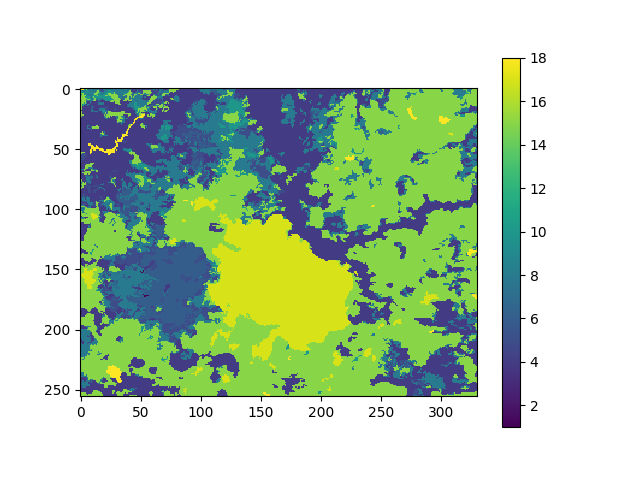
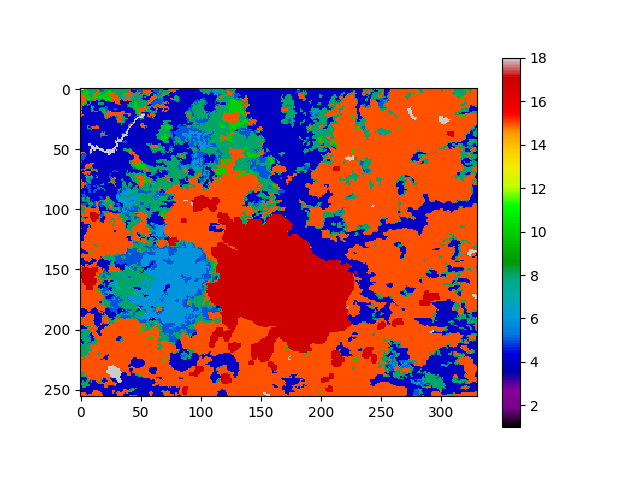
Land Use model enhanced, it works. Still pendient the rules used

diff --git a/Python/GDAL-OGR/Raster/OOCA-LandUseSimulation/OOCA-LandUse.py b/Python/GDAL-OGR/Raster/OOCA-LandUseSimulation/OOCA-LandUse.py
@@ -43,9 +43,34 @@ print
 rows = raster.RasterYSize
 columns = raster.RasterXSize
 
-timesteps = 5
+timesteps = 10
 nSize = 1
 gridSize = columns * rows
+
+landUseNames = [
+	
+	"",
+	"Temperate or sub-polar needleleaf forest",
+	"",
+	"Tropical or sub-tropical broadleaf evergreen forest",
+	"Tropical or sub-tropical broadleaf deciduous forest",
+	"Temperate or sub-polar broadleaf deciduous forest",
+	"Mixed forest",
+	"Tropical or sub-tropical shrubland",
+	"Temperate or sub-polar shrubland",
+	"Tropical or sub-tropical grassland",
+	"Temperate or sub-polar grassland",
+	"",
+	"",
+	"",
+	"Wetland",
+	"Cropland",
+	"Barren land",
+	"Urban and built-up",
+	"Water",
+	"Snow and ice"
+	
+]
 
 print "Simulation Variables:"
 print "Grid rows: ",rows
@@ -54,85 +79,110 @@ print "Time-steps: ",timesteps
 print "Neighborhod size: ",nSize
 print "Grid size: ", gridSize
 print 
-board = raster.ReadAsArray()
-
+board = []
 
 #------------------Simulation functions---------------------------------
 def runSim():
-	board = initGrid()
+	global board
+	typeArray, board = initGrid()
 	stpCounter = 0
+	print
+	for i in range (0,len(typeArray)-1):
+		if landUseNames[i] == "":
+			pass
+		else:
+			print "%s: %i" %(landUseNames[i],typeArray[i])
+	print
 	while stpCounter < timesteps:
-		board = updateScenario(board)	
+		print "timestep ",stpCounter
+		tmpBoard = updateScenario(board)
+		board = numpy.array(tmpBoard)
 		stpCounter+=1
 	plotBand(board)
 
 
 def initGrid():
+	typeArray = [0,0,0,0,0,0,0,0,0,0,0,0,0,0,0,0,0,0,0]
 	rasterArray = raster.ReadAsArray()
 	print ""
 	print rasterArray
 	print "array shape: ",rasterArray.shape
-	return rasterArray
-	"""for y in range(0,rows):
-					board.apped([])
-					for x in range(0,columns):
-						#We have to be careful with the x,y format used in rasters (X are the columns and Y are the rows)
-						#We make the raster sweep left-right and up-down
-						pxValue = raster.ReadAsArray(x,y,1,1)"""
+	
+	for row in range (rows):
+		for column in range (columns):
+			typeArray[rasterArray[row,column]] += 1	
+
+	return typeArray,rasterArray
 
 def updateScenario(grid):
 	tmpGrid = numpy.array(grid)
 	for row in range (0, rows-1):
 		for column in range (0, columns-1):
 			nextState = getNextState(row, column)
-			if nextState != None:
+			if nextState != 0:
 				tmpGrid[row,column] = nextState
 
 	return tmpGrid
 
+
 def getNextState(row, column):
+	global board
 	value = board[row,column]
 
+	"""
+		As we are modeling the ZMG as a cellular automata, it is necessary to
+		define the simulation rules.
+		There are 18 different types of cell in the raster and every one has 
+		its own behavior.
+	"""
+
 	if value == 1:
-		pass
+		return 0
 	elif value == 2:
-		pass
+		return 0
 	elif value == 3:
-		pass
+		return 0
 	elif value == 4:
-		pass
+		return 0
 	elif value == 5:
-		pass
+		return 0
 	elif value == 6:
-		pass
+		return 0
 	elif value == 7:
-		pass
+		return 0
 	elif value == 8:
-		pass
+		return 0
 	elif value == 9:
 		if 17 in getNeighborhod(row, column):
-			board[row,column] = 17
+			return 17
+		else:
+			return 0
 	elif value == 10:
 		if 17 in getNeighborhod(row, column):
-			board[row,column] = 17
+			return 17
+		else:
+			return 0
 	elif value == 11:
-		pass
+		return 0
 	elif value == 12:
-		pass
+		return 0
 	elif value == 13:
-		pass
+		return 0
 	elif value == 14:
-		pass
+		return 0
 	elif value == 15:
-		pass
+		if 17 in getNeighborhod(row, column):
+			return 17
+		else:
+			return 0
 	elif value == 16:
-		pass
+		return 0
 	elif value == 17:
-		pass
+		return 0
 	elif value == 18:
-		pass
+		return 0
 	elif value == 19:
-		pass
+		return 0
 
 def getNeighborhod(row, column):
 	neighborhod = []
